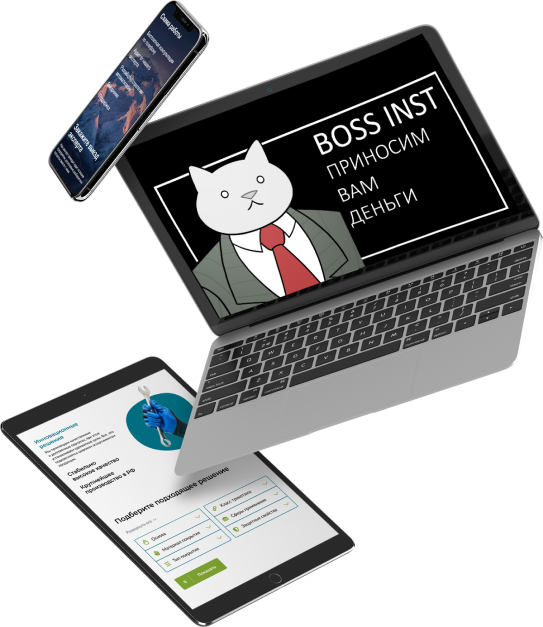
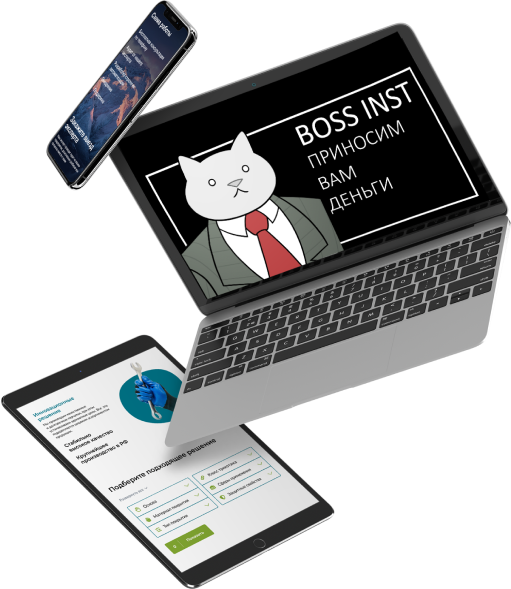
флекс для первой части промо

diff --git a/index.html b/index.html
@@ -41,17 +41,23 @@
     <main class="main">
         <section class="promo">
             <div class="wrapper">
-                <h1 class="promo_title">
-                    Как за короткий срок опередить конкурентов на несколько лет
-                </h1>
-                <img src="../svg/Polygon_promo.svg" alt="уголок" class="polygon_promo">
-                <h2 class="promo_title2">
-                    И получить <span class="color_promo_title2">в 3 раза больше дохода</span>, заставив конкурентов кусать локти
-                </h2>
-                <a href="https://www.youtube.com/" class="offer_promo">получить предложение</a>
-                <p class="offer_promo2">по специальной цене</p>
-                /*<img src="" alt="Успешные проекты наших клиентов" class="promo_img">*/
-            </div>            
+                <div class="promo_flex1">
+                    <div class="promo_part_left">
+                        <h1 class="promo_title">
+                            Как за короткий срок опередить конкурентов на несколько лет
+                        </h1>
+                        <img src="../svg/Polygon_promo.svg" alt="уголок" class="polygon_promo">
+                        <h2 class="promo_title2">
+                            И получить <span class="color_promo_title2">в 3 раза больше дохода</span>, заставив конкурентов кусать локти
+                        </h2>
+                        <div class="offer_promo_box">
+                            <a href="#" class="offer_promo">получить предложение</a>
+                        </div>
+                        <p class="offer_promo2">по специальной цене</p>
+                    </div>
+                    <img src="../image/img promo.png" alt="Успешные проекты наших клиентов" class="promo_img">
+                </div>
+            </div>       
         </section>
     </main>
 </body>

diff --git a/css/style.css b/css/style.css
@@ -58,19 +58,29 @@
 	color: #a53c00;
 }
 
-
-/*шапка*/
-
-/*начальная секция*/
+/*начальная секция часть1*/
 .promo{
 	height: 157vh;
 	background: url(../image/background_promo.jpg) no-repeat center top;
 	background-size: 100%;
-	padding-top: 253px;
+}
+
+.promo_flex1{
+	display:flex;
+}
+
+.promo_part_left{
+	margin-right: auto;
+	margin-top: 253px;
+}
+
+.promo_img{
+	margin-top: 112px;
+	margin-bottom: auto;
 }
 
 .promo_title{
-	max-width: 668px;
+	max-width: 655px;
 	font-family: 'Montserrat';
 	font-style: normal;
 	font-weight: 800;
@@ -93,11 +103,15 @@
 	line-height: 44px;
 	color: #FFFFFF;
 	margin-left: 25px;
-	margin-bottom: 41px;
+	margin-bottom: 51px;
 }
 
 .color_promo_title2{
 	color: #FF5C00;
+}
+
+.offer_promo_box{
+	margin-bottom: 33px;
 }
 
 .offer_promo{
@@ -112,12 +126,12 @@
 	background: #FF5C00;
 	border-radius: 31px;
 	text-decoration: none;
-	margin-bottom: 33px;
+	
 }
 
 .offer_promo:hover, .offer_promo:focus{
 	box-shadow: 0px 0px 23px #FF5C00;
-	border-radius: 30.5px;;
+	
 }
 
 
@@ -136,3 +150,4 @@
 	margin-left: 174px;
 }
 
+/*начальная секция часть2*/
